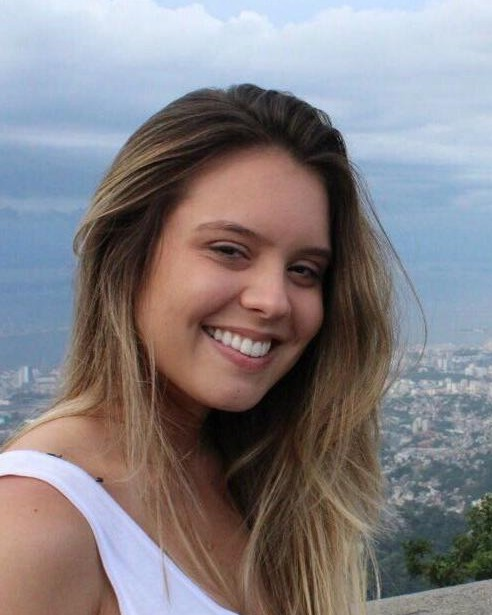
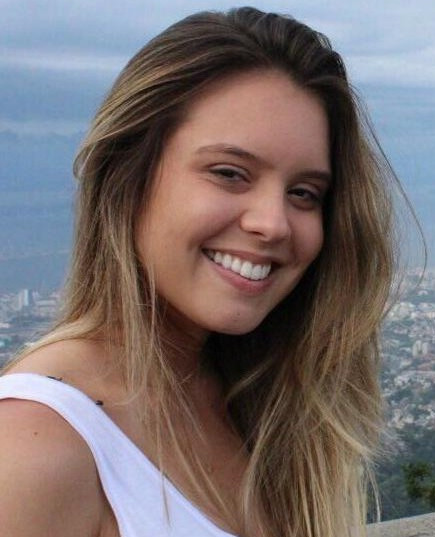
ajuste

diff --git a/index.html b/index.html
@@ -125,7 +125,7 @@
                 <div class="col-md-6">
                   <div class="row">
                     <div class="about-img mr-4">
-                      <img src="assets/img/aboutme2.jpg" class="img-fluid rounded b-shadow-a p-3" alt="about me">
+                      <img src="assets/img/aboutme3.jpg" class="img-fluid rounded b-shadow-a p-3" alt="about me">
                     </div>
                   </div>
                   <div class="skill-mf">
@@ -846,7 +846,7 @@
                 <div class="testimonial-box">
                   <div class="author-test">
                     <img src="assets/img/testimonial-3.jpg" alt="" class="rounded-circle b-shadow-a">
-                    <span class="author">Rafael Beserra</span>
+                    <span class="author">Rafael Bezerra</span>
                   </div>
                   <div class="content-test">
                     <h3 class="text-white">
@@ -866,7 +866,7 @@
                 </div>
                 <div class="testimonial-box">
                   <div class="author-test">
-                    <img src="assets/img/testimonial-3.jpg" alt="" class="rounded-circle b-shadow-a">
+                    <img src="assets/img/testimonial-6.jpg" alt="" class="rounded-circle b-shadow-a">
                     <span class="author">Marina Saldanha</span>
                   </div>
                   <div class="content-test">
